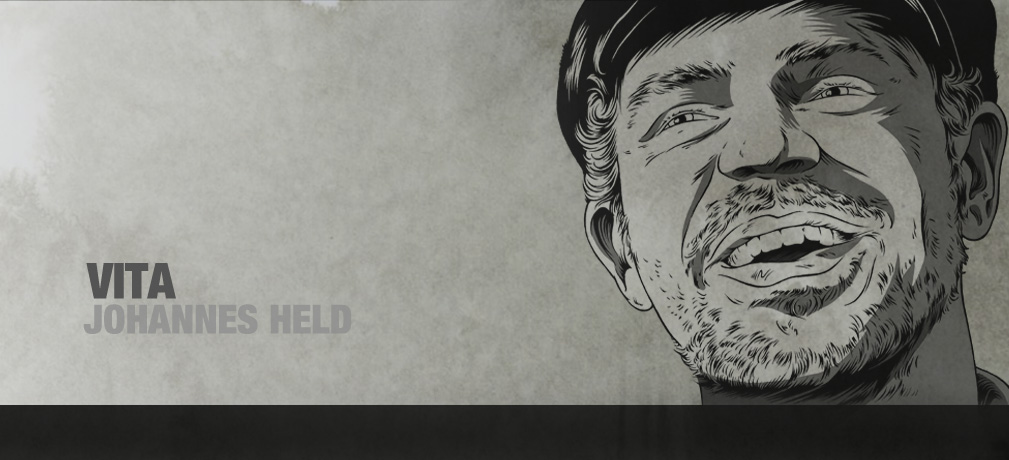
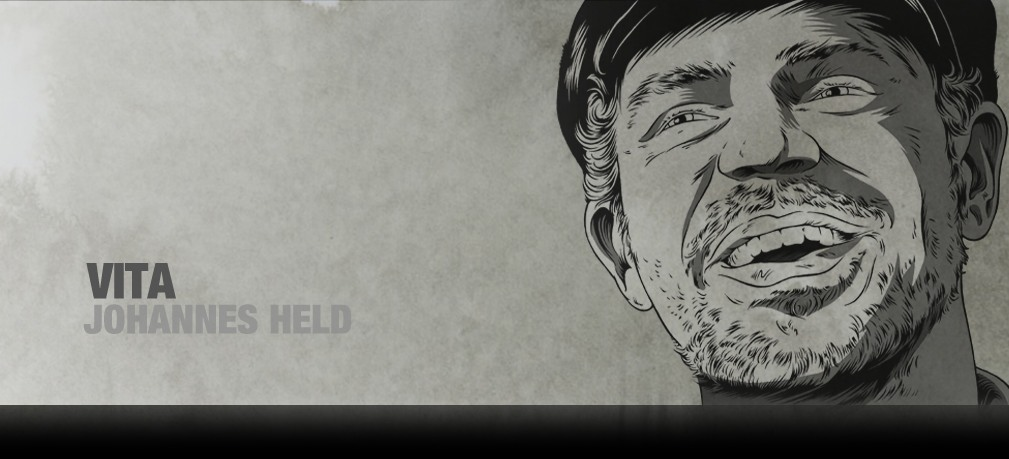
high quality for photo gallery & new animated header

diff --git a/public/stylesheets/style.css b/public/stylesheets/style.css
@@ -174,7 +174,17 @@ div.secondary-article + .more{
   margin:auto;
 }
 .photo-gallery img{
+}
+
+.photo-gallery div.photo-box{
+  float:left;
+  width:220px;
   padding:10px;
+}
+
+.photo-gallery div a{
+  font-size:x-small;
+  clear:both;
 }
 
 /**************************************/

diff --git a/app/models/photo.rb b/app/models/photo.rb
@@ -2,10 +2,11 @@ class Photo < ActiveRecord::Base
   
   has_attachment :content_type => :image, 
                  :storage => :file_system, 
-                 :max_size => 2000.kilobytes,
-                 :resize_to => '950x950>',
+                 :max_size => 3000.kilobytes,
+                 :resize_to => '3000x3000>',
                  :thumbnails => { :thumb => '215x215>',
                                   :square_thumb => 'c200x200',
+                                  :page_width => '900x900',
                                 }
 
   validates_as_attachment
